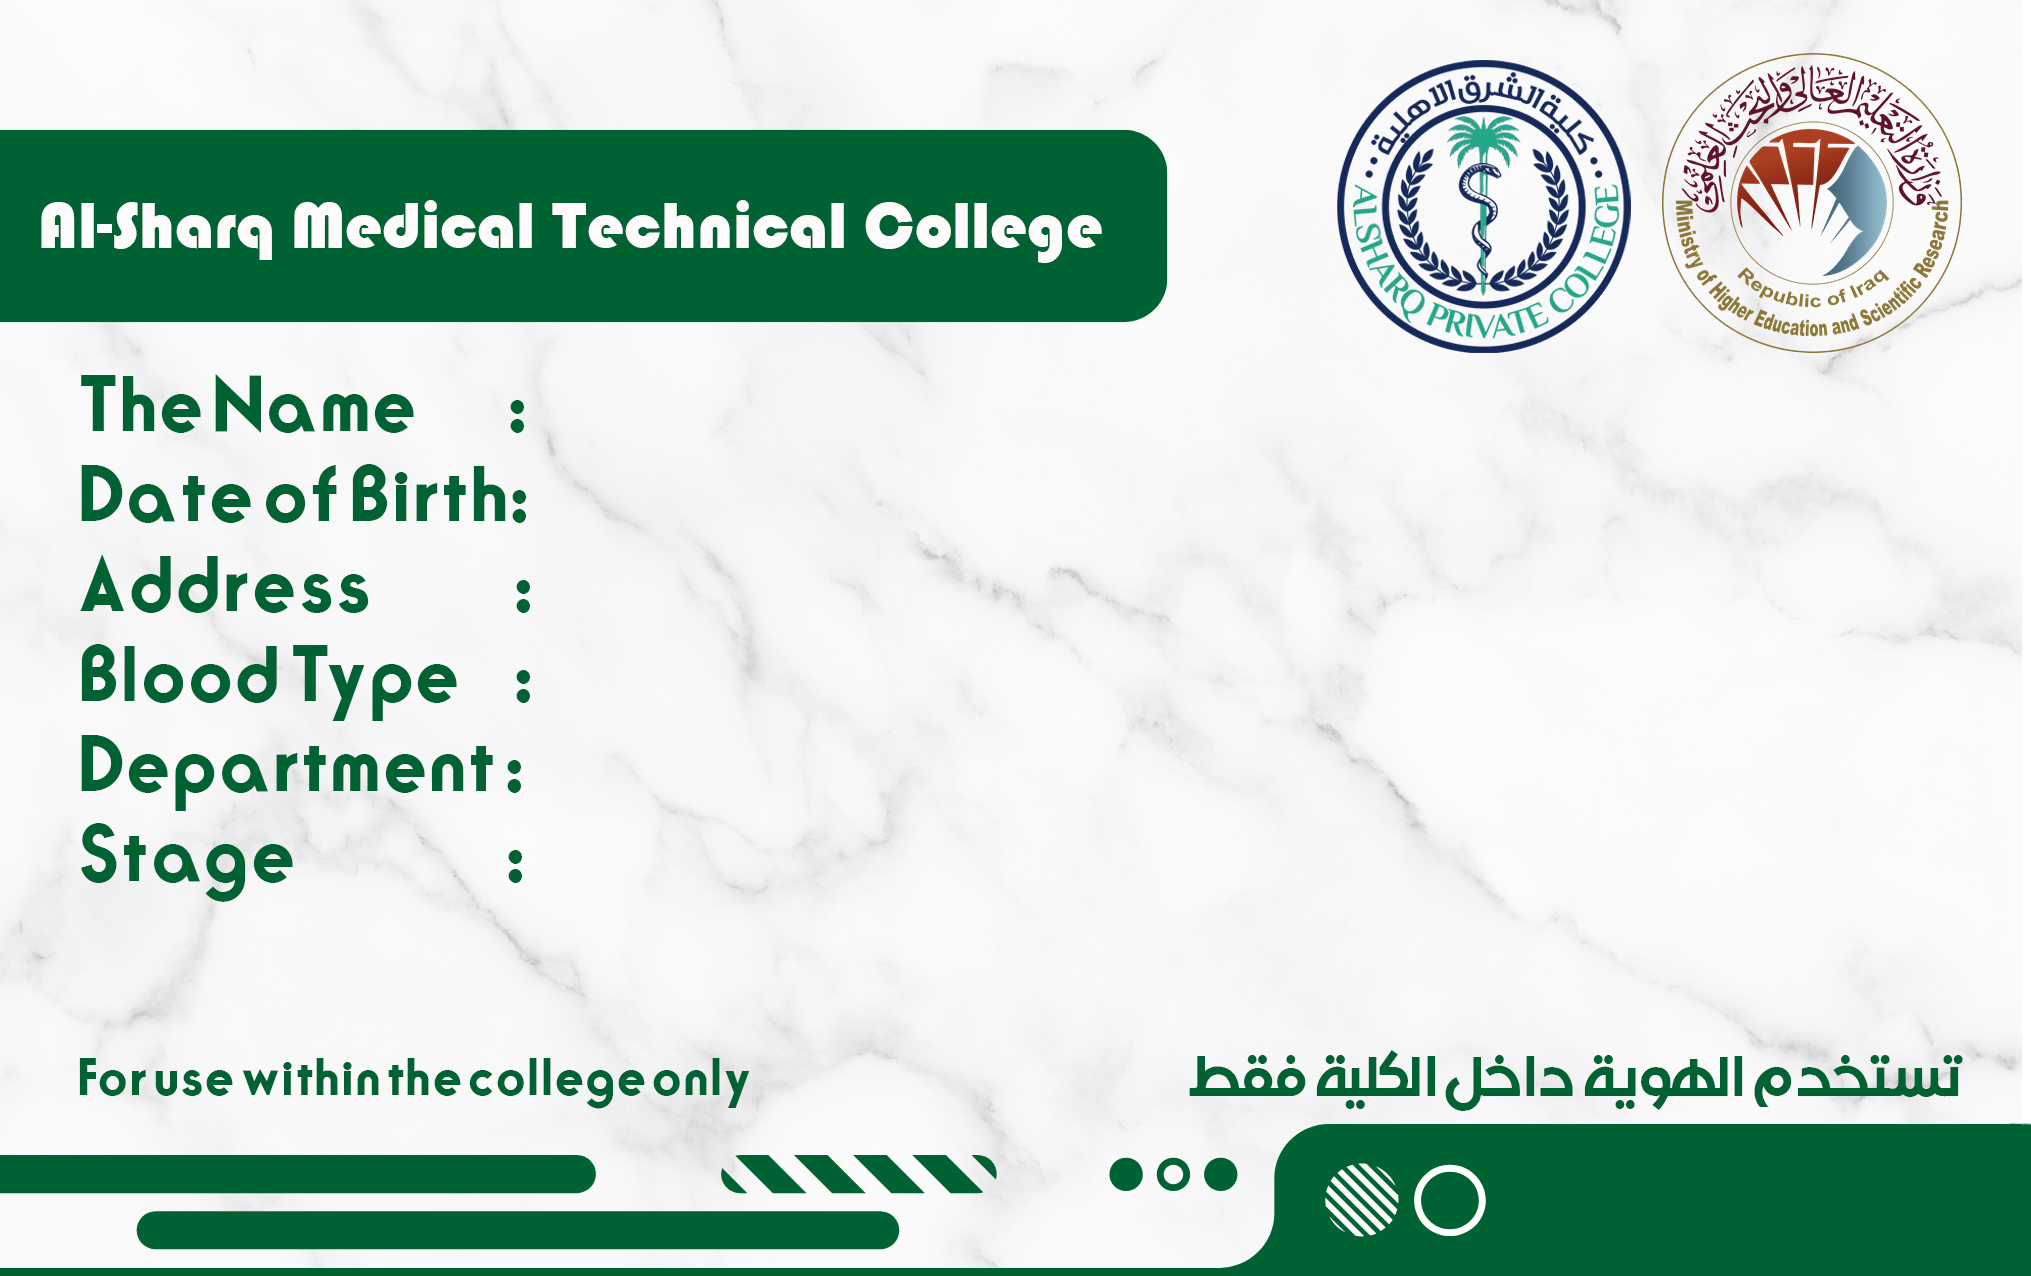
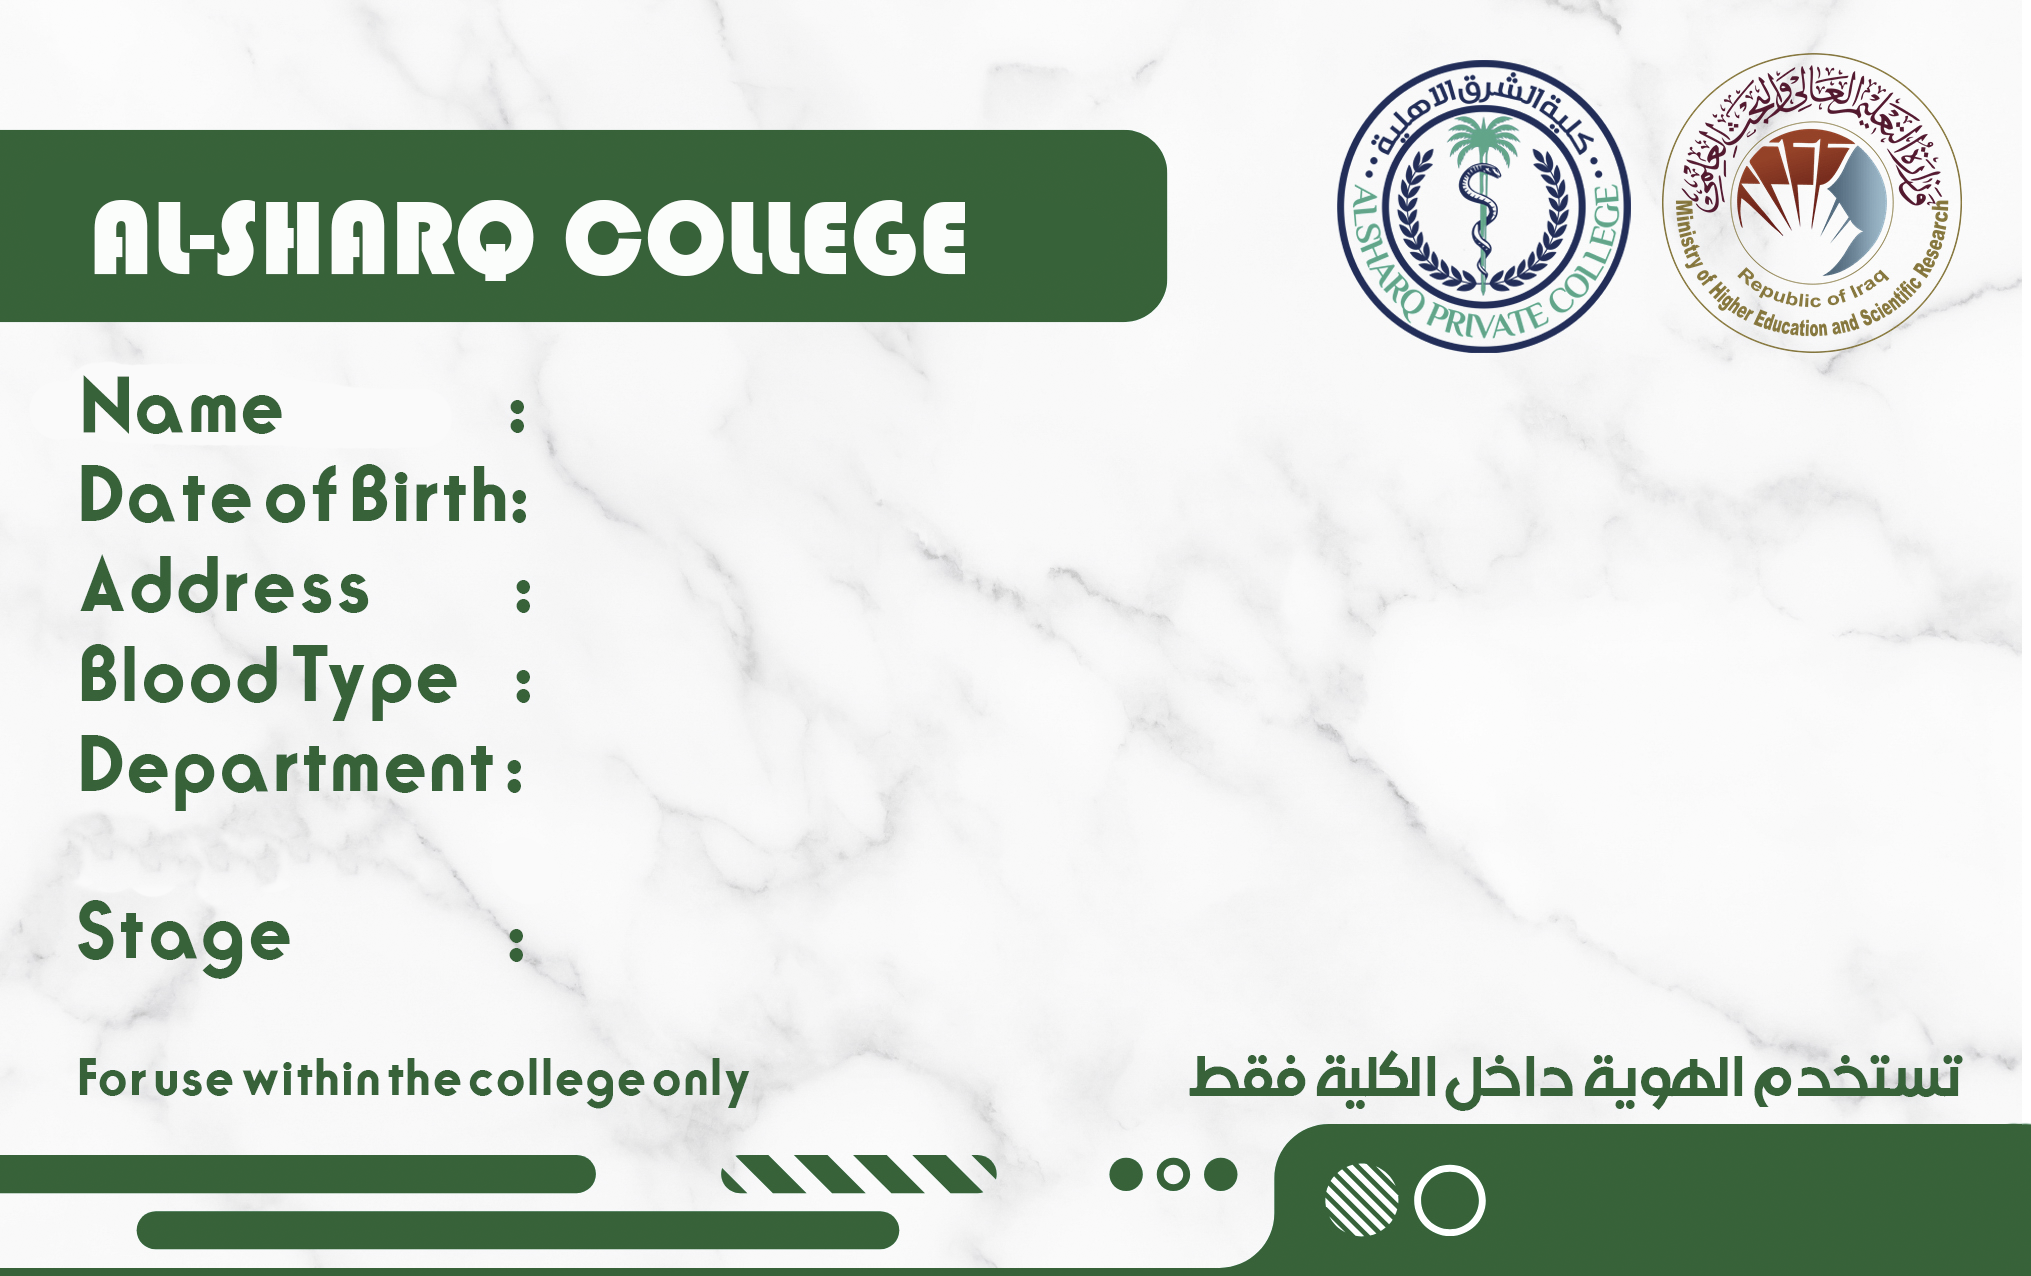
Update platform features + DB tables

diff --git a/app/id-template/IdCardTemplate.tsx b/app/id-template/IdCardTemplate.tsx
@@ -51,7 +51,7 @@ export default function IdCardTemplate({
             <div className="absolute right-0 top-[88px]">{data.address}</div>
             <div className="absolute right-0 top-[136px]">{data.bloodType}</div>
             <div className="absolute right-0 top-[178px]">{data.department}</div>
-            <div className="absolute right-0 top-[235px]">{data.stage}</div>
+            <div className="absolute right-0 top-[275px]">{data.stage}</div>
           </div>
 
           <div className="absolute left-[20px] top-[190px] w-[210px] h-[260px] overflow-hidden">
@@ -86,7 +86,7 @@ export default function IdCardTemplate({
             <div>{addressEn}</div>
             <div className="relative top-[4px]">{data.bloodType}</div>
             <div className="relative top-[6px]">{departmentEn}</div>
-            <div className="relative top-[8px]">{stageEn}</div>
+            <div className="relative top-[48px]">{stageEn}</div>
           </div>
 
           <div className="absolute right-[30px] top-[210px] w-[240px] h-[300px] overflow-hidden opacity-15">
